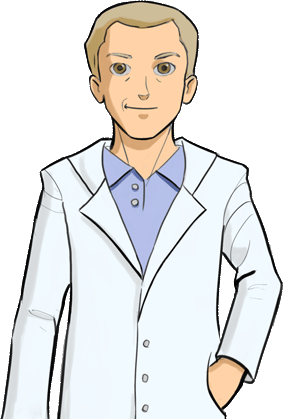
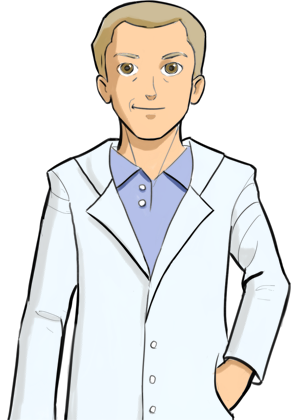
Update images and fix text align
Updated mentor.png and termometro.png.
The images had a bad quality and now are ok.

Also I am versioning this commit so people can talk about it and point out what is good and bad

diff --git a/src/css/scenes/modalScenes.less b/src/css/scenes/modalScenes.less
@@ -51,17 +51,17 @@
 
   @media (min-width:@screen-sm-min) {
     font-size: 35px;
-    top: 47%;
+    top: 46%;
     left: 55%;
   }
   @media (min-width:@screen-md-min) {
     font-size: 45px;
-    top: 47%;
+    top: 46%;
     left: 55%;
   }
   @media (min-width:@screen-lg-min) {
     font-size: 53px;
-    top: 47%;
+    top: 46%;
     left: 55%;
   }
 }

diff --git a/tasks/build.js b/tasks/build.js
@@ -37,7 +37,7 @@ module.exports = function( grunt ) {
 
         grunt.log.write("Building " + pkg.name + ":" + target );
 
-        if ( target == "rel" ) {
+        if ( target == "rel" && ver !== "no") {
             grunt.task.run([
                 "version::" + ver
             ]);

diff --git a/src/css/interactiveObjects/interactiveObjects.less b/src/css/interactiveObjects/interactiveObjects.less
@@ -9,7 +9,7 @@
   cursor: hand;
 }
 
-.interactiveObject:hover {
+.interactiveObject:hover:not(.no-glow) {
   @scale: 1.05;
   transform: scale( @scale, @scale );
   filter: drop-shadow(0 0 8px #91FF00);
